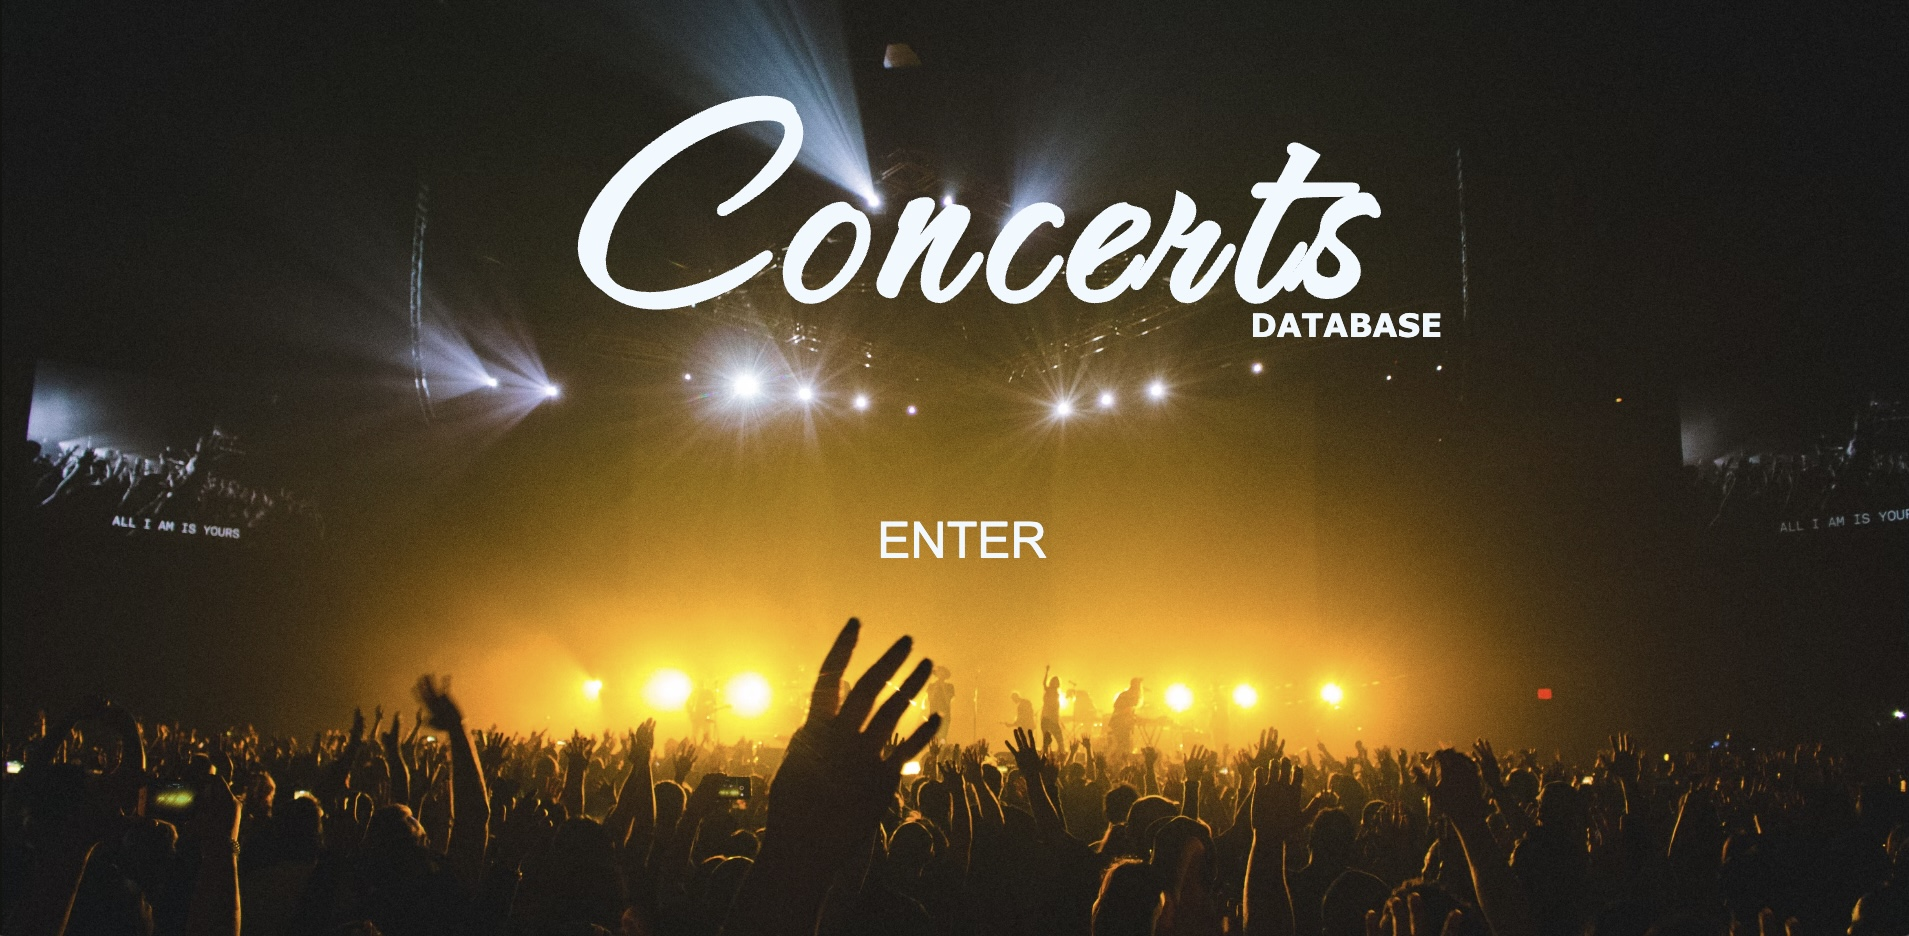
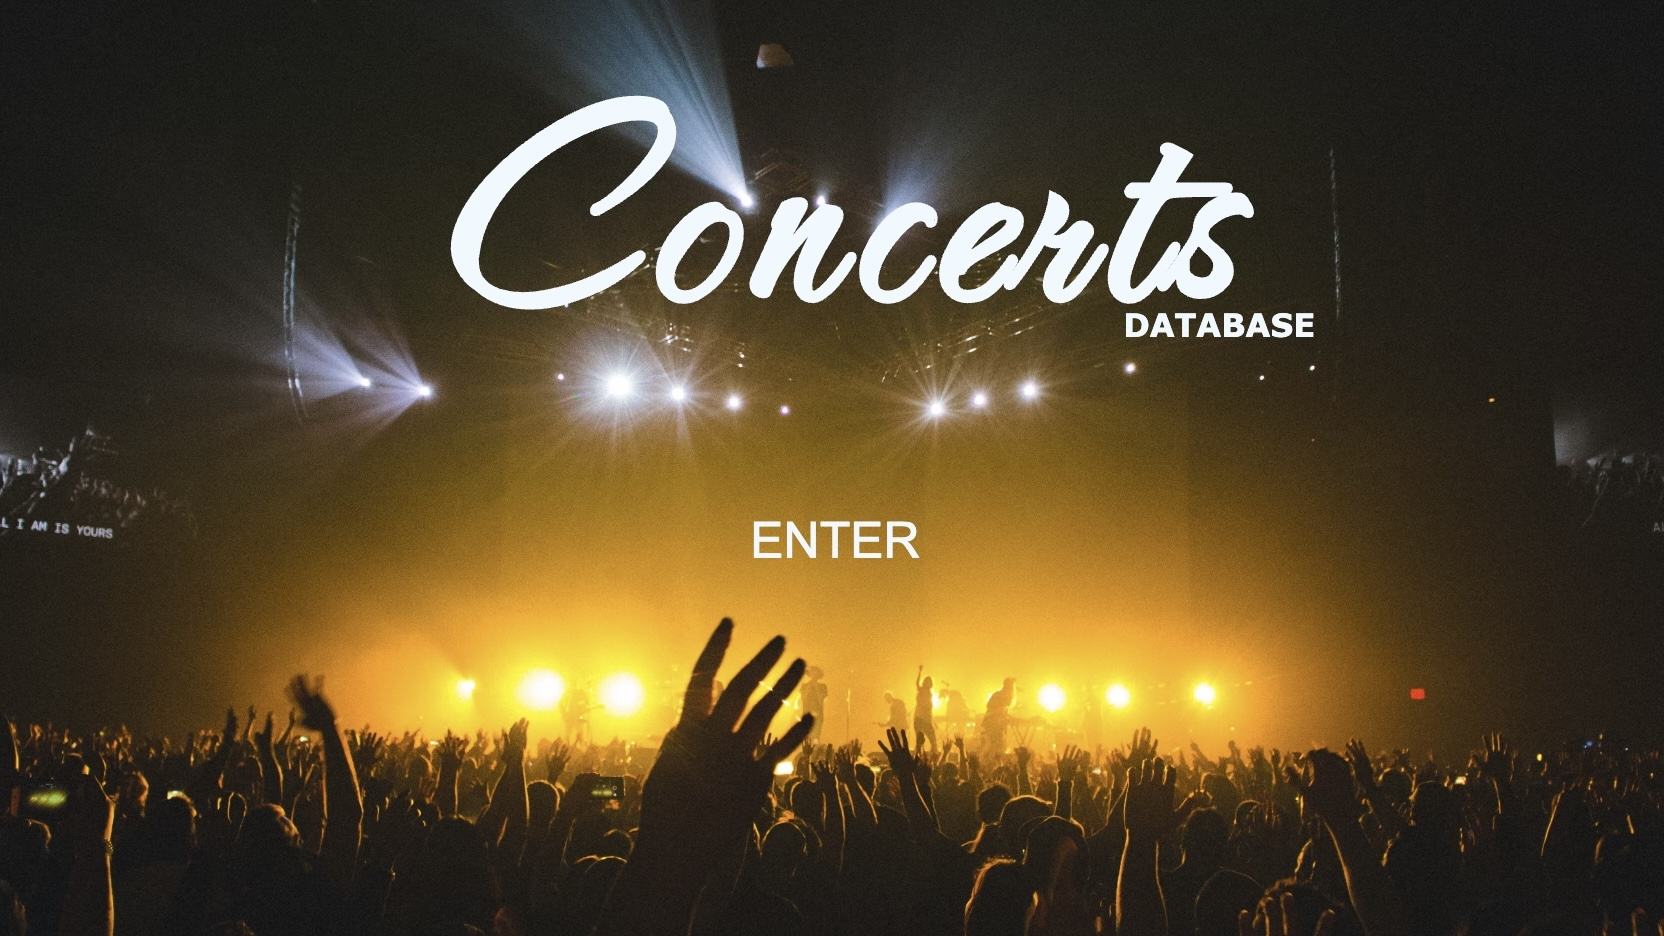
fixing projects img sizes, adding a new project

diff --git a/src/components/projects/Projects.jsx b/src/components/projects/Projects.jsx
@@ -1,9 +1,11 @@
-import { useRef } from 'react';
+import { useRef, useState } from 'react';
 import projectsJSON from '../../projects.json';
 import style from './Projects.module.css';
 import { motion, useScroll, useTransform } from 'framer-motion';
 
 const ProjectCard = ({ projectsJSON }) => {
+  const [isHovered, setIsHovered] = useState(false);
+
   const ref = useRef();
 
   const { scrollYProgress } = useScroll({
@@ -12,17 +14,33 @@ const ProjectCard = ({ projectsJSON }) => {
   const y = useTransform(scrollYProgress, [0, 1], [-400, 400]);
 
   return (
-    <section className={style.container} key={projectsJSON.id}>
+    <section
+      className={style.container}
+      key={projectsJSON.id}
+      onMouseEnter={() => setIsHovered(true)}
+      onMouseLeave={() => setIsHovered(false)}
+    >
       <div className={style.imageContainer} ref={ref}>
         <img loading="lazy" src={projectsJSON.img} alt="" />
       </div>
       <motion.div className={style.textContainer} style={{ y }}>
         <div className={style.topWrapper}>
           <h2>{projectsJSON.project}</h2>
-          <a href={projectsJSON.github} target={'_blank'} rel="noreferrer">
+          <a
+            href={projectsJSON.github}
+            target={'_blank'}
+            rel="noreferrer"
+            k
+            className={`hoverable ${isHovered ? style.hovered : ''}`}
+          >
             Github
           </a>
-          <a href={projectsJSON.website} target={'_blank'} rel="noreferrer">
+          <a
+            href={projectsJSON.website}
+            target={'_blank'}
+            rel="noreferrer"
+            className={`hoverable ${isHovered ? style.hovered : ''}`}
+          >
             Website
           </a>
         </div>
